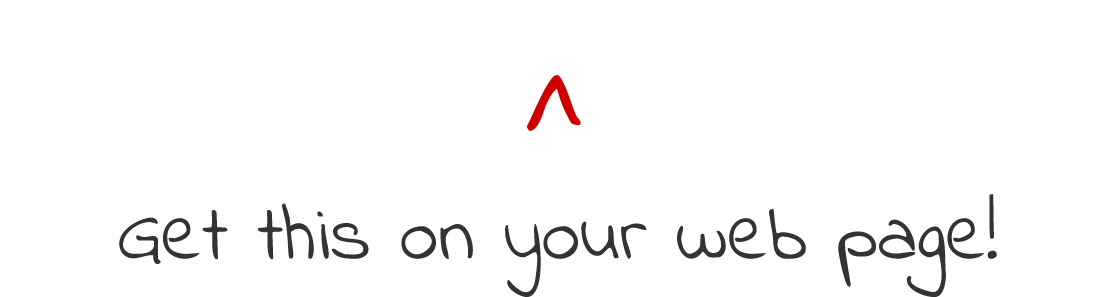
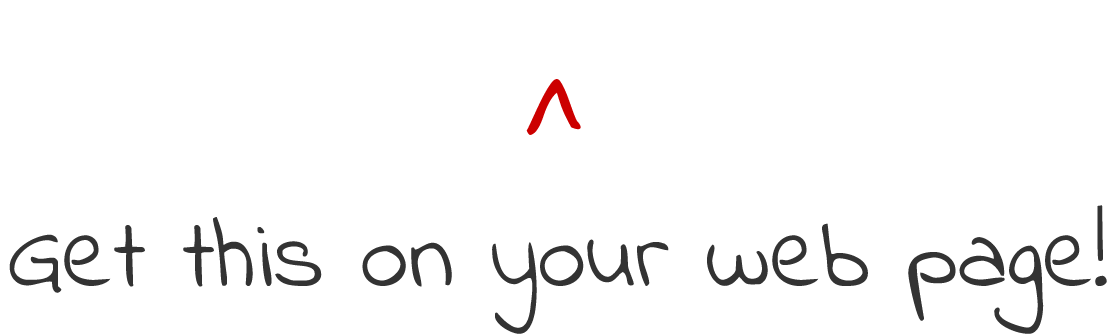
Make 'get this' a link and increase its font size.

Changed region(s): [[0.0, 0.6061, 1.0, 1.0], [0.4688, 0.2424, 0.5312, 0.4545]]

diff --git a/www/index.html b/www/index.html
@@ -84,7 +84,9 @@
           <img src="img/btn-icon.png" class="btn-icon responsive-img" width="24" height="24">
           Experience PushMint
         </a>
-        <img src="img/get-this.png" class="responsive-img" width="280">
+        <a href="javascript:void(0)" target="_blank">
+          <img src="img/get-this.png" class="responsive-img" width="280">
+        </a>
       </div>
     </div>
 
